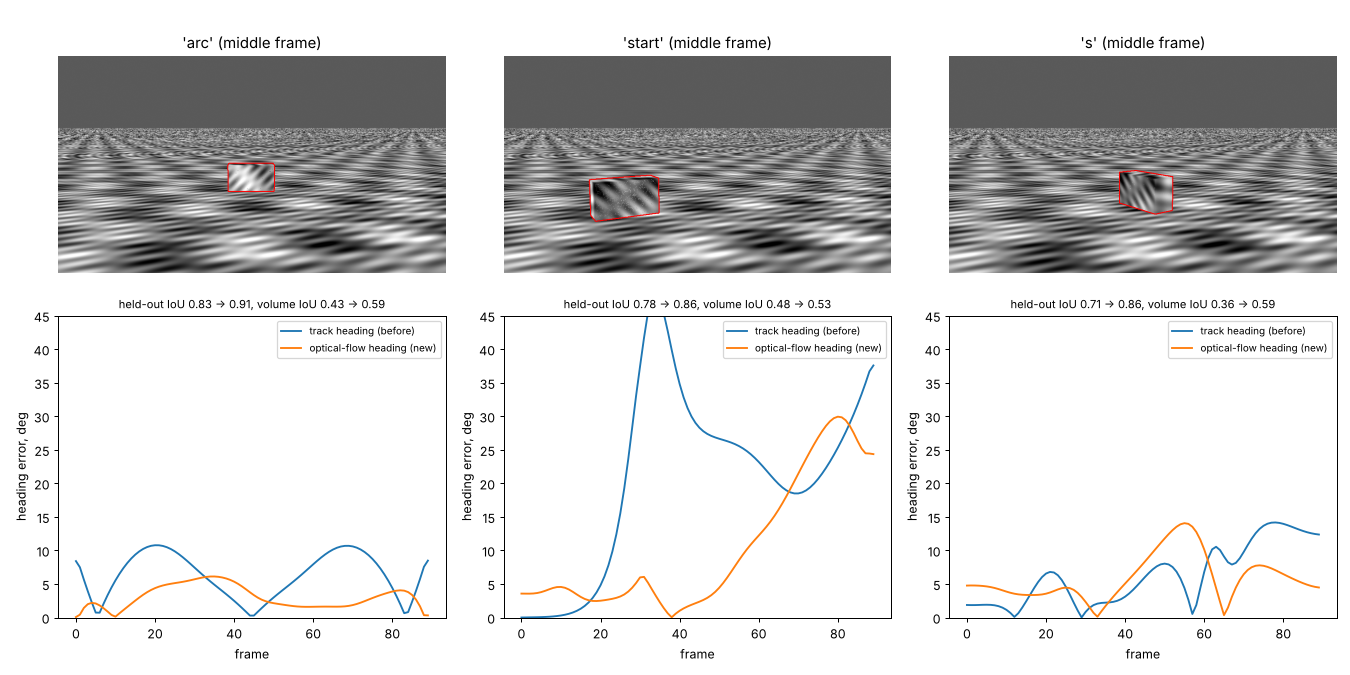
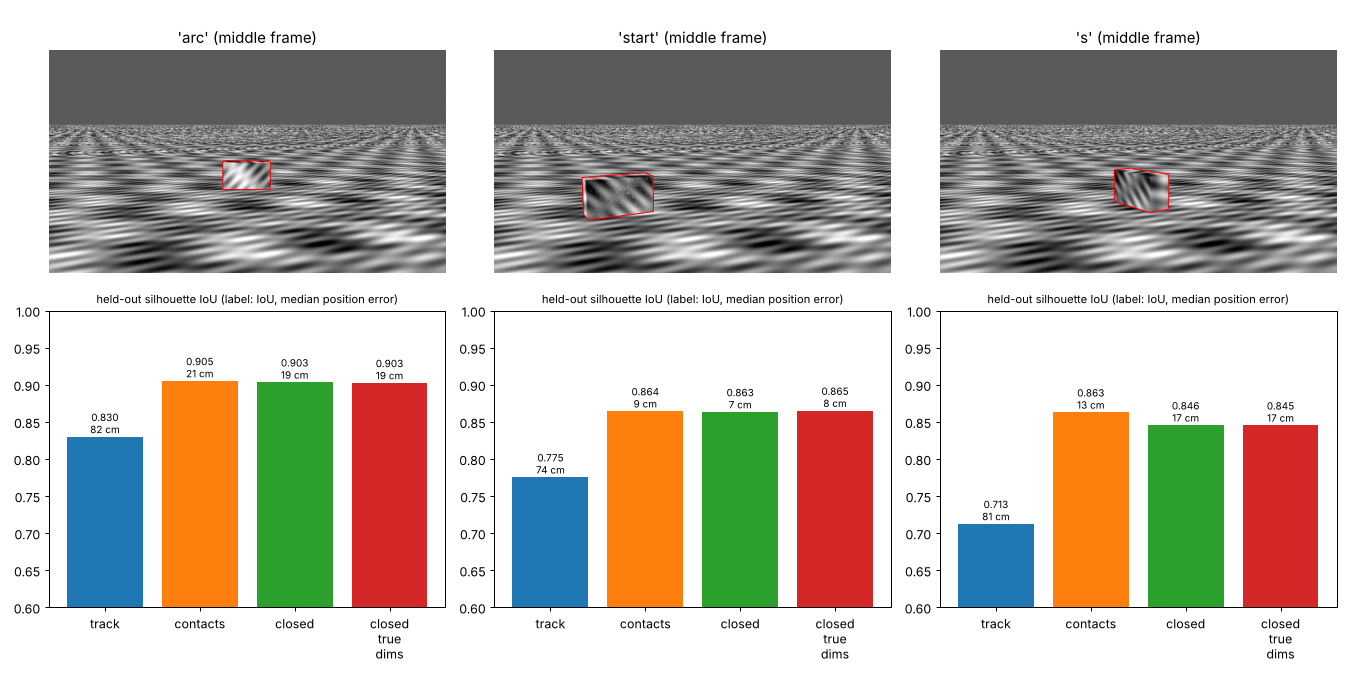
Add the article's closed-form BEV footprint (footprint_closed_form)
Implements C = ((l-a)A + aB)/l from the SpringerLifting chapter with the
fit-error threshold; available via initial_poses(footprint='closed').
Benchmarked against the ground-contact footprint: more accurate with an
exact heading, not better with flow headings, so contacts stay default.

Claude-Session: https://claude.ai/code/session_01X347n29LESXEophdpHxP6M

diff --git a/video3d.py b/video3d.py
@@ -239,15 +239,83 @@ def footprint_centre(cam, mask, yaw, min_width=0.3):
     return centre, (uhi - ulo, width)
 
 
-def initial_poses(cam, masks, fps, step=1, smooth_s=0.25, frames=None):
+def _line_hit(p, d, q, e):
+    """Parameters (s, r) with p + s d = q + r e (2D lines), or None if parallel."""
+    M = np.column_stack([d, -e])
+    if abs(np.linalg.det(M)) < 1e-9:
+        return None
+    return np.linalg.solve(M, q - p)
+
+
+def footprint_closed_form(cam, mask, yaw, dims, side_px=20):
+    """The article's closed-form footprint (SpringerLifting/author/moving.tex, "Lifting
+    2D Object Detection to 3D") from the 2D box of the silhouette, heading and size.
+
+    In the bird's-eye view the 2D box's bottom edge is the ground segment AB and its
+    left/right sides are the rays AR, BT. The footprint rectangle touches AB in C, AR in
+    K and BT in D. A ray from B along the heading meets AR in E, l = |EB|; KC || EB with
+    |KC| = a, so from the similar triangles KAC ~ EAB
+
+        C = ((l - a) A + a B) / l,     K = A + (a / l) (E - A),
+
+    and D is where the perpendicular to KC through C meets BT. |CD| is the computed
+    second side; its difference from the expected b is the fitting error. KC can be the
+    length or the width of the object, so both are tried (and both heading signs).
+    dims = (length, width). Returns (centre_xy, error, (|KC|, |CD|), b) for the best
+    configuration plus the expected b, or None if the rectangle cannot be fitted
+    (error = infinity).
+    """
+    ys, xs = np.nonzero(mask)
+    if len(xs) < 50:
+        return None
+    x0, x1, yb = xs.min(), xs.max() + 1, ys.max() + 1
+    img = np.array([[x0, yb], [x1, yb], [x0, yb - side_px], [x1, yb - side_px]], float)
+    if not _ground_rays_ok(cam, img).all():
+        return None
+    A, B, Ru, Tu = cam.backproject_to_plane(img, 0.0)[:, :2]
+    dL, dR = Ru - A, Tu - B                              # left and right sides, away from the camera
+    L, W = dims
+    h = np.array([math.cos(yaw), math.sin(yaw)])
+    best = None
+    for a, b, axis in ((L, W, h), (W, L, np.array([-h[1], h[0]]))):
+        for sgn in (1.0, -1.0):
+            u = sgn * axis
+            hit = _line_hit(B, u, A, dL)                 # E = B + l u on AR
+            if hit is None or hit[0] <= a or hit[1] < 0:
+                continue
+            l = hit[0]
+            E = B + l * u
+            C = ((l - a) * A + a * B) / l
+            K = A + (a / l) * (E - A)
+            p = np.array([-u[1], u[0]])
+            if p @ (dL + dR) < 0:
+                p = -p                                   # the far side of KC
+            hit = _line_hit(C, p, B, dR)                 # D = C + q p on BT
+            if hit is None or hit[0] <= 0 or hit[1] < 0:
+                continue
+            D = C + hit[0] * p
+            err = abs(hit[0] - b)
+            if best is None or err < best[1]:
+                best = ((K + D) / 2, err, (a, hit[0]), b)
+    return best
+
+
+def initial_poses(cam, masks, fps, step=1, smooth_s=0.25, frames=None, dims=None, footprint="contacts", max_fit_err=0.2):
     """Ground track, heading and lean for every frame.
 
     Without frames: track from the silhouettes' bottom-centre and heading from its
     direction of travel. With frames: heading from the dense optical flow
-    (flow_headings) and position from the footprint centre for that heading
-    (footprint_centre), so the track is the object's centre rather than its nearest
-    point, and the heading is defined from the first frame on, for slow objects too.
-    Lean always comes from the turn of the smoothed track.
+    (flow_headings) and position from the footprint centre for that heading, so the track is the object's centre rather than its nearest point, and the heading
+    is defined from the first frame on, for slow objects too. The footprint comes from
+    the ground contacts (footprint_centre, default) or, with footprint="closed", from
+    the article's closed form (footprint_closed_form, needs dims = (length, width);
+    without dims they are the median size measured by footprint_centre). The closed
+    form is more accurate with an exact heading but more sensitive to heading error,
+    so with flow headings it is not better (bench_flow_init.py, NOTES section 8). As in the article, a closed-form fit
+    is accepted only if its error is small (here below max_fit_err of the expected
+    second side); other frames, mostly near side-on views where the construction
+    degenerates, fall back to footprint_centre. Lean always comes from the turn of the smoothed
+    track.
     """
     T = len(masks)
     tt = np.arange(T)
@@ -262,9 +330,16 @@ def initial_poses(cam, masks, fps, step=1, smooth_s=0.25, frames=None):
             flow_yaw = gaussian_filter1d(np.interp(tt, tt[good], uw), max(1.0, sig / 2))
     pts = np.full((T, 2), np.nan)
     ground = np.full((T, 3), np.nan)
+    if flow_yaw is not None:
+        contacts = [footprint_centre(cam, m, flow_yaw[t]) for t, m in enumerate(masks)]
+        if footprint == "closed" and dims is None:
+            sizes = np.array([c[1] for c in contacts if c is not None])
+            dims = tuple(np.median(sizes, 0)) if len(sizes) else None
     for t, m in enumerate(masks):
         if flow_yaw is not None:
-            fp = footprint_centre(cam, m, flow_yaw[t])
+            fp = footprint_closed_form(cam, m, flow_yaw[t], dims) if footprint == "closed" and dims else None
+            if fp is None or fp[1] > max_fit_err * fp[3]:
+                fp = contacts[t]
             if fp is not None:
                 ground[t, :2] = fp[0]
             continue

diff --git a/bench_flow_init.py b/bench_flow_init.py
@@ -134,11 +134,25 @@ def main(out="docs/video3d"):
         truth = trajectory(name)
         frames, masks = render(cam, truth, gimg)
         track, _ = v3.initial_poses(cam, masks, FPS)
-        flow, _ = v3.initial_poses(cam, masks, FPS, frames=frames)
-        r_track, c_track = evaluate(cam, masks, truth, track)
-        r_flow, c_flow = evaluate(cam, masks, truth, flow)
-        results[name] = dict(track=r_track, flow=r_flow)
-        curves[name] = (c_track, c_flow, frames[len(frames) // 2], masks[len(frames) // 2])
+        variants = dict(track=track,
+                        flow_contacts=v3.initial_poses(cam, masks, FPS, frames=frames)[0],
+                        flow_closed=v3.initial_poses(cam, masks, FPS, frames=frames, footprint="closed")[0],
+                        flow_closed_true_dims=v3.initial_poses(cam, masks, FPS, frames=frames, footprint="closed",
+                                                               dims=DIMS[:2])[0])
+        results[name], errs = {}, {}
+        for k, est in variants.items():
+            results[name][k], errs[k] = evaluate(cam, masks, truth, est)
+        yaw = variants["flow_closed"][:, 2]
+        fits = [v3.footprint_closed_form(cam, m, yaw[t], DIMS[:2]) for t, m in enumerate(masks)]
+        results[name]["closed_form_fit_rate"] = float(np.mean([f is not None for f in fits]))
+        results[name]["closed_form_err_m_median"] = float(np.median([f[1] for f in fits if f is not None]))
+        # footprint accuracy alone, with the exact heading: closed form vs ground contacts
+        cf = [v3.footprint_closed_form(cam, m, truth[t, 2], DIMS[:2]) for t, m in enumerate(masks)]
+        ct = [v3.footprint_centre(cam, m, truth[t, 2]) for t, m in enumerate(masks)]
+        results[name]["true_heading_pos_err_m_median"] = dict(
+            closed_form=float(np.median([np.linalg.norm(f[0] - truth[t, :2]) for t, f in enumerate(cf) if f is not None])),
+            contacts=float(np.median([np.linalg.norm(f[0] - truth[t, :2]) for t, f in enumerate(ct) if f is not None])))
+        curves[name] = (errs, frames[len(frames) // 2], masks[len(frames) // 2])
         print(name, json.dumps(results[name], indent=1))
     os.makedirs(out, exist_ok=True)
     json.dump(results, open(os.path.join(out, "flow_init_benchmark.json"), "w"), indent=1)
@@ -150,22 +164,20 @@ def plot(curves, results, path):
     matplotlib.use("Agg")
     import matplotlib.pyplot as plt
     fig, ax = plt.subplots(2, 3, figsize=(15, 7.5))
-    for j, (name, (ct, cf, frame, mask)) in enumerate(curves.items()):
+    for j, (name, (errs, frame, mask)) in enumerate(curves.items()):
         a = ax[0, j]
         a.imshow(frame, cmap="gray")
         a.contour(mask, [0.5], colors="r", linewidths=0.8)
         a.set_title(f"'{name}' (middle frame)")
         a.axis("off")
         a = ax[1, j]
-        a.plot(np.degrees(ct), label="track heading (before)")
-        a.plot(np.degrees(cf), label="optical-flow heading (new)")
-        rt, rf = results[name]["track"], results[name]["flow"]
-        a.set_title(f"held-out IoU {rt['held_out_iou']:.2f} -> {rf['held_out_iou']:.2f}, "
-                    f"volume IoU {rt['volume_iou']:.2f} -> {rf['volume_iou']:.2f}", fontsize=9)
-        a.set_xlabel("frame")
-        a.set_ylabel("heading error, deg")
-        a.set_ylim(0, 45)
-        a.legend(fontsize=8)
+        r = results[name]
+        for k in ("track", "flow_contacts", "flow_closed", "flow_closed_true_dims"):
+            a.bar(k.replace("flow_", "").replace("_", "\n"), r[k]["held_out_iou"])
+            a.text(k.replace("flow_", "").replace("_", "\n"), r[k]["held_out_iou"] + 0.005,
+                   f"{r[k]['held_out_iou']:.3f}\n{r[k]['pos_err_m_median'] * 100:.0f} cm", ha="center", fontsize=8)
+        a.set_title("held-out silhouette IoU (label: IoU, median position error)", fontsize=9)
+        a.set_ylim(0.6, 1.0)
     fig.tight_layout()
     fig.savefig(path, dpi=90)
 

diff --git a/tests/test_video3d.py b/tests/test_video3d.py
@@ -127,3 +127,14 @@ def test_flow_heading_and_footprint_beat_the_track_on_an_arc():
     assert err(flow) < math.radians(4) and err(flow) < err(track)
     # the footprint centre is the box centre, not its nearest point
     assert np.median(np.linalg.norm(flow[:, :2] - truth[:, :2], axis=1)) < 0.3
+
+
+def test_closed_form_footprint_finds_the_box_centre_given_heading_and_size():
+    import bench_flow_init as b
+    cam = b.camera()
+    truth = b.trajectory("arc")
+    masks = b.render(cam, truth, b.ground_image(cam))[1]
+    fits = [v3.footprint_closed_form(cam, masks[t], truth[t, 2], b.DIMS[:2]) for t in range(0, len(truth), 5)]
+    errs = [np.linalg.norm(f[0] - truth[5 * i, :2]) for i, f in enumerate(fits) if f is not None]
+    assert len(errs) >= 0.8 * len(fits)
+    assert np.median(errs) < 0.15

diff --git a/NOTES.md b/NOTES.md
@@ -409,3 +409,33 @@ Limits: in a tight turn (radius ~1 m for a 1.6 m box) the rotation adds flow and
 heading error grows to 25-30 deg ("start", last frames); a static object gives no flow
 (falls back to interpolation between moving frames). Not yet measured on bike.mp4,
 which is not in the repository: `python video_demos.py bike --video bike.mp4` now uses it.
+
+### Closed-form footprint (article's formula)
+
+`video3d.footprint_closed_form` implements the construction from the chapter's section
+"Lifting 2D Object Detection to 3D": the silhouette's 2D box becomes the ground segment
+AB with side rays AR and BT; a ray from B along the heading meets AR in E (l = |EB|),
+C = ((l - a) A + a B) / l on AB, K = A + (a/l)(E - A) on AR, D on BT perpendicular to KC
+through C; |CD| against the expected side b is the fitting error. Both assignments
+(KC = length or width) and both heading signs are tried. As in the article, a fit is
+accepted only below a small error (`max_fit_err` = 20 % of b), otherwise the ground-contact
+footprint is used. Option `initial_poses(..., footprint="closed", dims=(L, W))`; without
+dims the median size from the contacts is used.
+
+Footprint centre error with the exact heading (median, m):
+
+| trajectory | closed form | ground contacts | closed form fits |
+|---|---|---|---|
+| arc | 0.087 | 0.107 | 93 % |
+| start | 0.041 | 0.077 | 52 % |
+| s-curve | 0.058 | 0.080 | 93 % |
+
+With the optical-flow heading (2.6-4.7 deg median error) the advantage is gone: position
+error 0.19 / 0.07 / 0.17 m vs 0.21 / 0.09 / 0.13 m, held-out IoU 0.903 / 0.863 / 0.846 vs
+0.905 / 0.864 / 0.863. The construction rotates the rectangle about the touch points, so
+a heading error moves the centre more than it moves the contact extents; it also
+degenerates near side-on views (l close to a) and assumes the box's left/right image
+extremes are bottom corners. The default therefore stays `footprint="contacts"`. Knowing
+the true size does not change this (`flow_closed_true_dims`). The closed form becomes
+useful once the heading is refined (after pose refinement, or with tracking) or for
+the type-size step, where its fitting error ranks object types.
